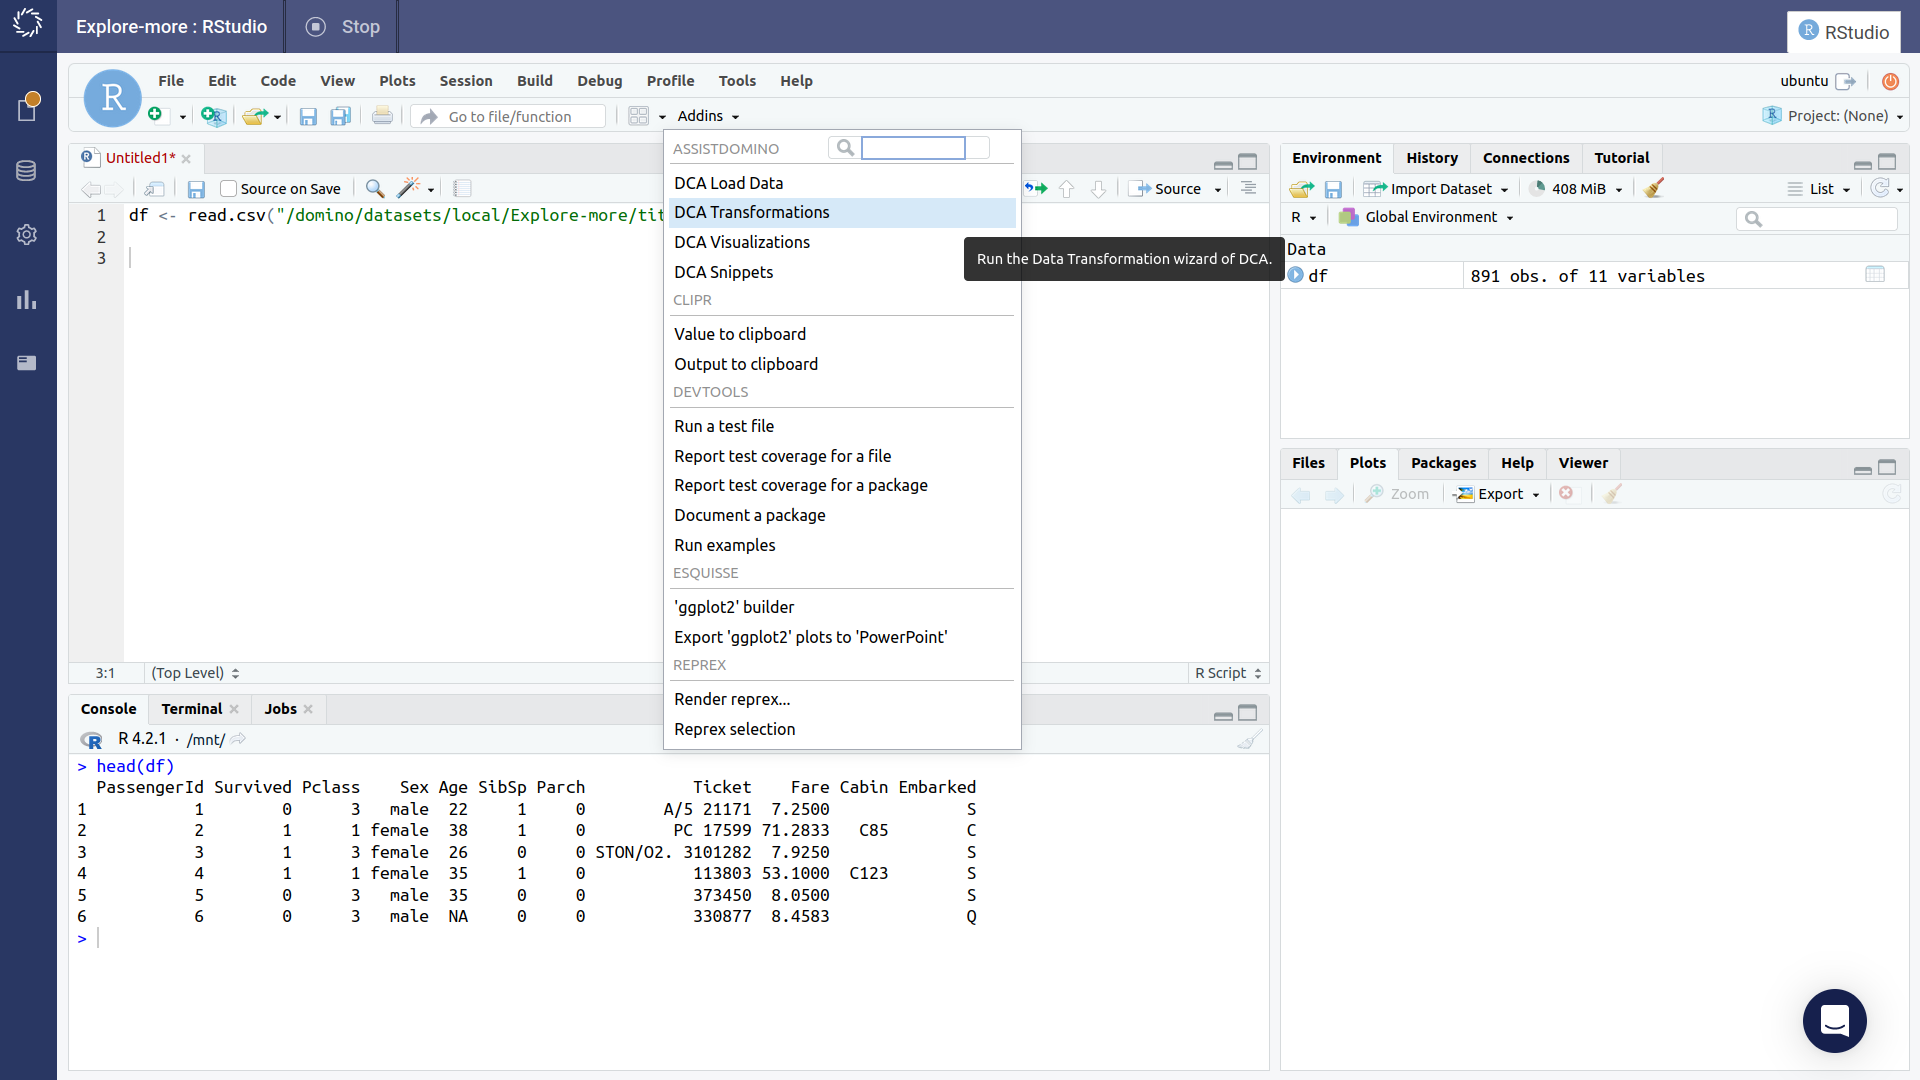
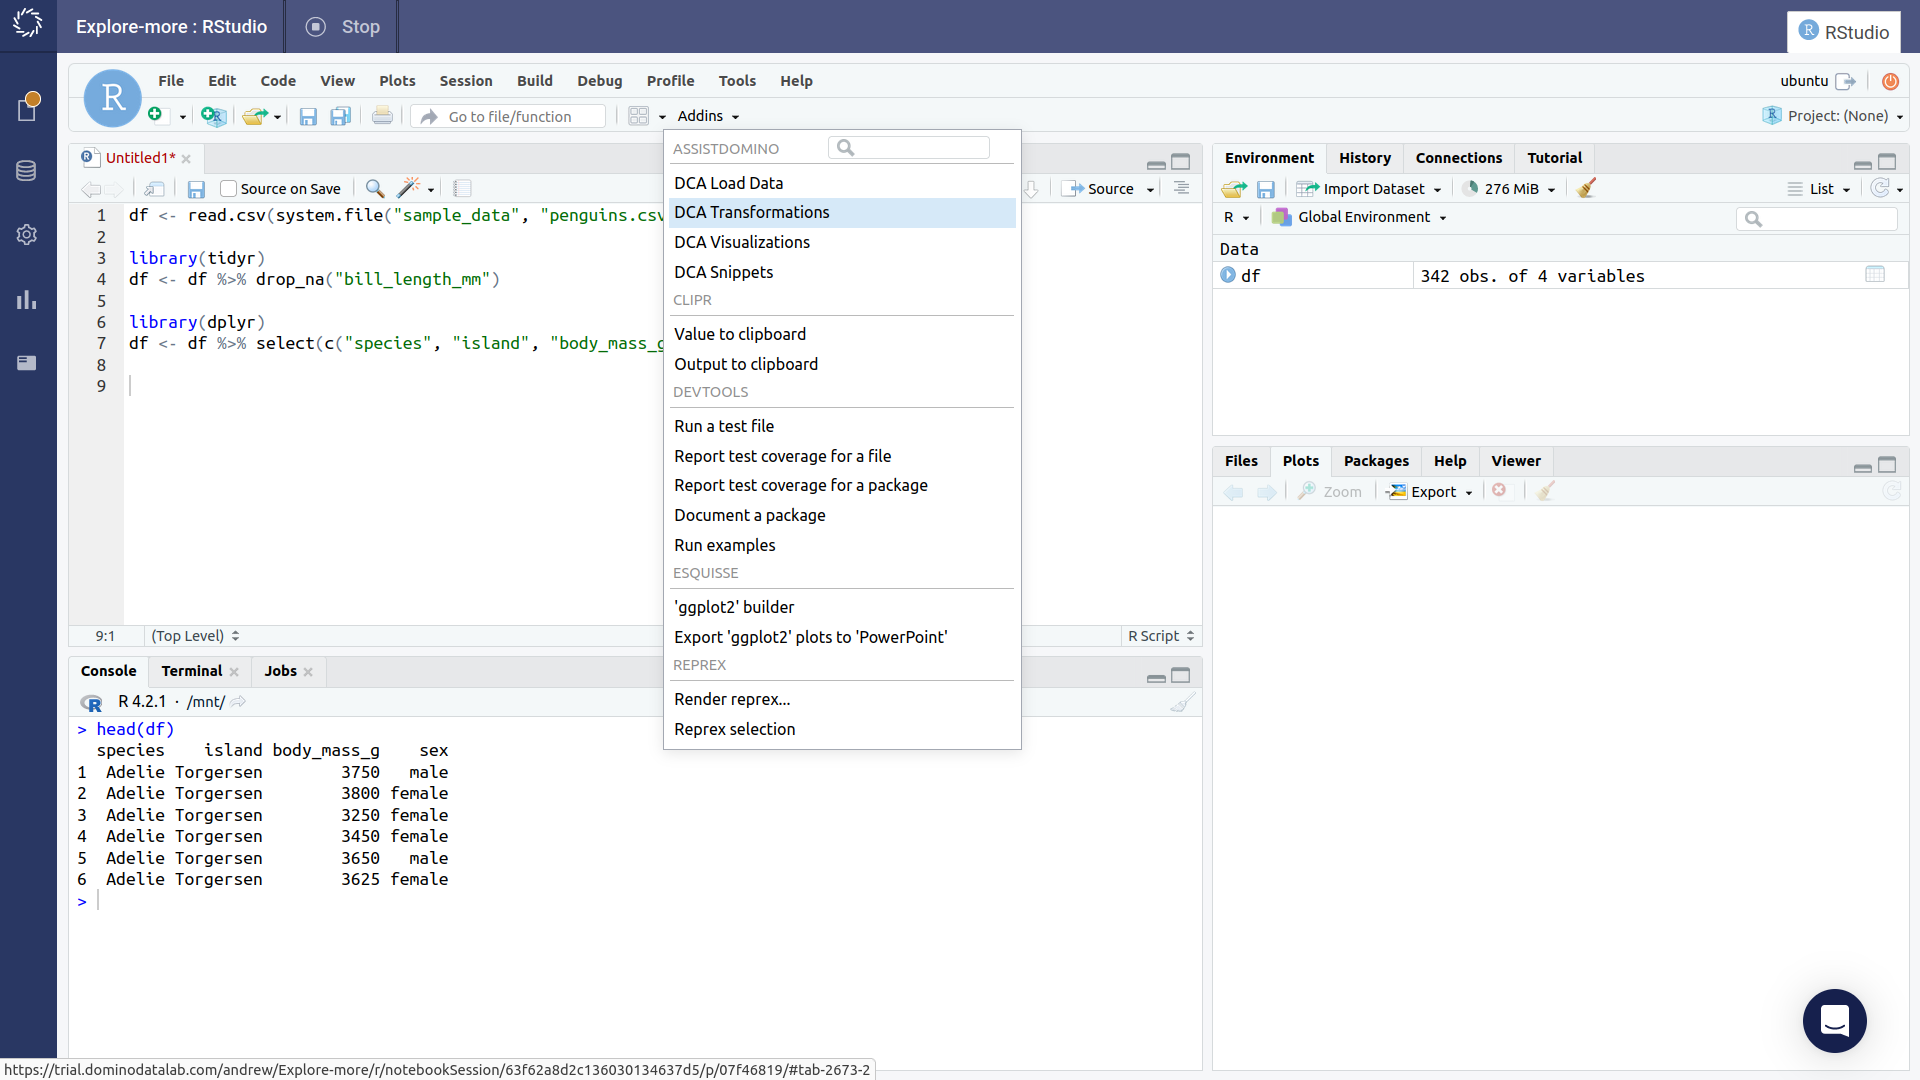
feat: Group & aggregate in RStudio

diff --git a/docs/transform/group-aggregate.md b/docs/transform/group-aggregate.md
@@ -45,3 +45,39 @@ For this tutorial we'll use the _Palmer Penguins_ data. We have already filtered
     <img class="screenshot" src="../../screenshots/jupyter-transformation-groupby-aggregate-insert-code.png">
 
 === "R"
+
+    This is what the data currently looks like.
+
+    <img class="screenshot" src="../../screenshots/rstudio-transformation-groupby-aggregate-initial-data.png">
+
+    Press the _Addin_ button. Select _DCA Transformations_ from the menu to launch the transformations wizard.
+
+    <img class="screenshot" src="../../screenshots/rstudio-menu-transformations.png"">
+
+    Choose the data that you want to work on.
+
+    <img class="screenshot" src="../../screenshots/rstudio-penguins-transformations-filtered-choose-data.png">
+
+    A preview of the data will be shown. Press the <span class="blue-button">ADD TRANSFORMATION</span> button.
+
+    <img class="screenshot" src="../../screenshots/rstudio-penguins-transformations-data-preview.png">
+
+    Select _Group & Aggregate_ from the dropdown menu.
+
+    <img class="screenshot" src="../../screenshots/rstudio-penguins-transformations-actions.png">
+
+    Now choose the columns that the results will be grouped by. We'll group by `species`, `island` and `sex`.
+
+    <img class="screenshot" src="../../screenshots/rstudio-penguins-transformations-select-grouping.png">
+
+    Next choose the column which will be aggregated and the aggregation operation. You can select multiple columns for aggregation. We'll calculate the minimu, maximum and mean values of `body_mass_g` for each group. Press the <span class="blue-button">Apply</span> button.
+
+    <img class="screenshot" src="../../screenshots/rstudio-penguins-transformations-select-aggregate.png">
+
+    The data preview in the transformations wizard will be updated with the aggregated results. Press the <span class="blue-button">Insert Code</span> button.
+
+    <img class="screenshot" src="../../screenshots/rstudio-penguins-transformations-aggregate-results-preview.png">
+
+    The required code will be inserted into the script and the aggregated results stored in a new variable.
+
+    <img class="screenshot" src="../../screenshots/Domino — Mozilla Firefox_0044.png">
